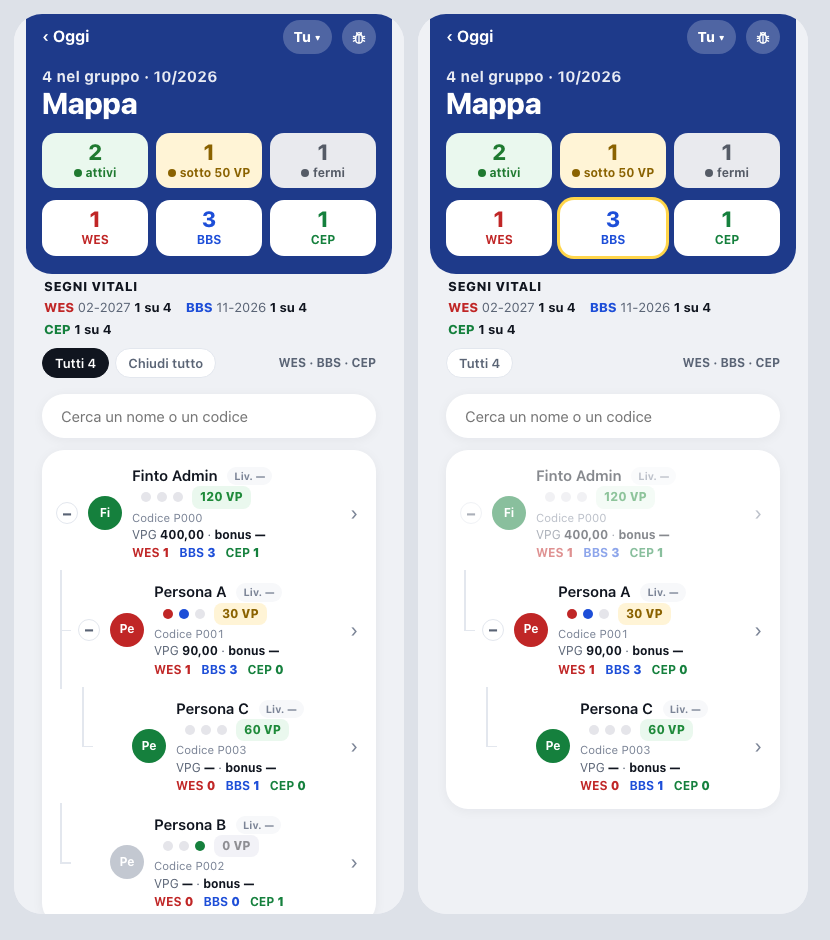
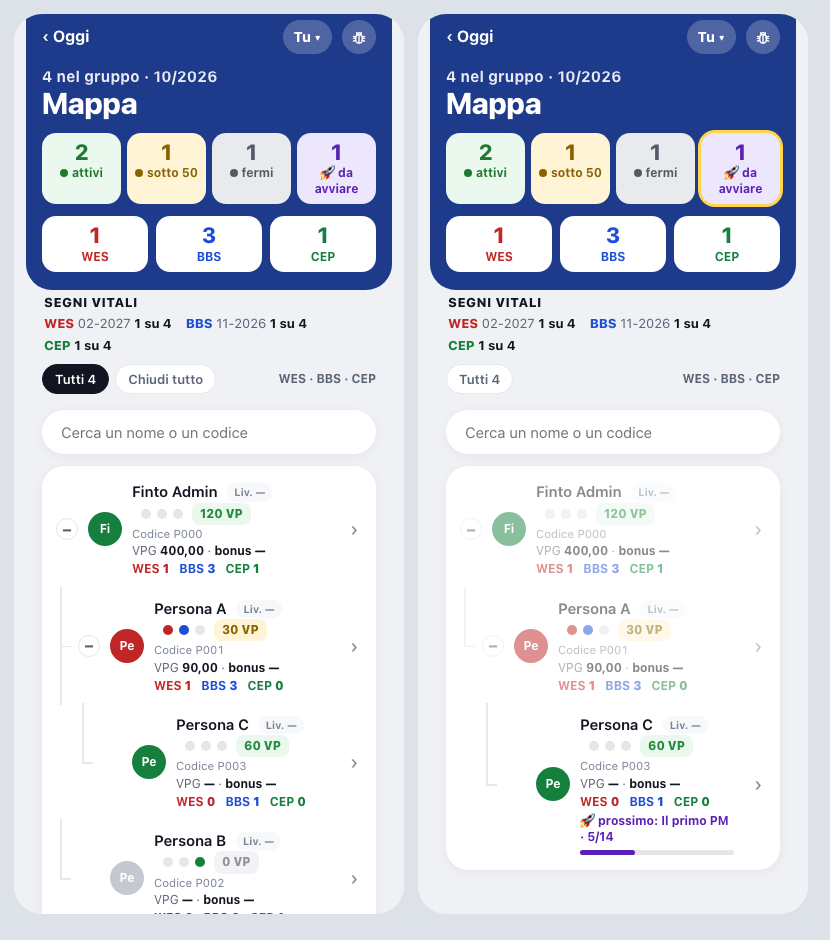
Nota Pagine 098 (Ignazio 26/10, «perfetto»): nella Mappa v5 «da avviare» è un riquadro-filtro; via la riga «Partner da avviare»; la pagina dei passi con la testata v5

diff --git a/pagina-mappa.js b/pagina-mappa.js
@@ -145,7 +145,9 @@ function riquadriMappaV5(conta, cime) {
   const tot = { wes: 0, bbs: 0, cep: 0 };
   if (MP.segni) for (const c of cime) { const g = MP.segni.gruppo[c.id]; if (g) for (const [k] of SEGNI_V5) tot[k] += g[k] || 0; }
   const b = (k, n, t) => `<button class="m5-box ${k}${MP.filtro === k ? ' scelto' : ''}" data-mpfiltro="${k}" aria-pressed="${MP.filtro === k}"><b>${n}</b><small>${t}</small></button>`;
-  return `<div class="m5-riquadri stati">${b('attivo', conta.attivo, 'attivi')}${b('warning', conta.warning, 'sotto 50 VP')}${b('inattivo', conta.inattivo, 'fermi')}</div>
+  // nota 098 (Ignazio 26/10, «perfetto»): «da avviare» è un riquadro come gli altri (i partner con l'avvio aperto, AVV.righe, nell'albero che si guarda)
+  const avvio = avviiNellaMappa(cime).size;
+  return `<div class="m5-riquadri stati quattro">${b('attivo', conta.attivo, 'attivi')}${b('warning', conta.warning, 'sotto 50')}${b('inattivo', conta.inattivo, 'fermi')}${b('avvio', avvio, '🚀 da avviare')}</div>
     <div class="m5-riquadri segni">${SEGNI_V5.map(([k, t]) => b(k, MP.segni ? tot[k] : '…', t)).join('')}</div>`;
 }
 // Nota 098 (Ignazio 26/10: «lo sappiamo in quale mese siamo e chi sta guardando»; via «Segnati» e «Abbonati»): un titolo solo «Segni Vitali» e sotto
@@ -165,9 +167,22 @@ function livelloVisto(livello, cime) {
   const base = cime && cime.length === 1 && cime[0].livello != null ? cime[0].livello : null;
   return base != null && livello >= base ? livello - base + 1 : livello;
 }
-// chi passa il filtro di un riquadro: lo stato dei VP, o il segno suo (non del gruppo)
+// i partner da avviare (AVV.righe, letti con la Dashboard o all'apertura della Mappa) che stanno nell'albero che si guarda: codice → riga dell'avvio
+function avviiNellaMappa(cime) {
+  const ids = new Set(MB21Mappa.tuttiGliId(cime || [])), m = new Map();
+  for (const a of (typeof AVV !== 'undefined' && AVV.righe) || []) if (a.partner_id && ids.has(a.partner_id)) m.set(a.partner_id, a);
+  return m;
+}
+// sotto il nome, con il filtro «da avviare»: il prossimo passo e i passi fatti su 14, con la barretta (MB21Lista, le regole dell'avvio)
+function avvioRigaV5(a) {
+  if (!a) return '';
+  const L = MB21Lista, { fatti, totale } = L.contatoreOnboarding(a), p = L.prossimoPasso(a);
+  return `<div class="m5-avvio">🚀 ${p ? 'prossimo: ' + esc(p.nome) + ' · ' : ''}${fatti}/${totale}<i><b style="width:${totale ? Math.round(fatti / totale * 100) : 0}%"></b></i></div>`;
+}
+// chi passa il filtro di un riquadro: lo stato dei VP, il segno suo (non del gruppo), o l'avvio aperto
 function passaFiltroV5(r, f) {
   if (f === 'attivo' || f === 'warning' || f === 'inattivo') return r.stato === f;
+  if (f === 'avvio') return ((typeof AVV !== 'undefined' && AVV.righe) || []).some(a => a.partner_id === r.id);
   const p = MP.segni && MP.segni.proprio[r.id];
   return !!(p && p[f] > 0);
 }
@@ -197,6 +212,7 @@ function disegnaMappa() {
   // WES · BBS · CEP: chi ha il segno, MP.segni.proprio). Poi (Ignazio: «manteniamo la struttura della mappa»): l'albero resta, tutto aperto, con le persone
   // della lista al loro posto e i rami che servono per arrivarci attenuati (`spento`, come i filtri di prima)
   const soloLista = v5 && MP.filtro !== 'tutti';
+  const avvii = v5 ? avviiNellaMappa(cime) : new Map();
   const righe = soloLista ? M.righe(cime, { aperti: new Set(M.tuttiGliId(cime)), cerca: MP.cerca, passaFiltro: r => passaFiltroV5(r, MP.filtro) })
     : M.righe(cime, { aperti: MP.aperti, filtro: MP.filtro, cerca: MP.cerca });
   const num = (v, d = 2) => (v == null ? '—' : centesimi(Number(v).toLocaleString('it-IT', { minimumFractionDigits: d, maximumFractionDigits: d })));   // HTML: la virgola dei centesimi evidente
@@ -205,7 +221,7 @@ function disegnaMappa() {
 
   // v5 (nota 095, Regia 26/10): la testata blu notte (testaMappaV5, pagina-oggi.js) al posto del titolo e della fascia del Partner Select; sotto la Mappa di adesso
   let html = `${v5 ? testaMappaV5(conta.tutti, mesePulito(MP.mese), riquadriMappaV5(conta, cime)) : `<h1>Mappa</h1>${partnerSelect()}`}
-    ${righeTeamHtml()}${statisticheHtml()}
+    ${v5 ? obiettiviTeamHtml() : righeTeamHtml()}${statisticheHtml()}
     ${v5 ? segniVitaliV5(cime) : `<div class="mp-testa"><span>Gruppo di ${esc(nomeVisto())}</span><span>mese ${esc(mesePulito(MP.mese))}</span></div>
     ${MP.attivi ? `<div class="mp-testa"><span>Segni Vitali del gruppo: WES ${MP.attivi.wes ? esc(MB21Lista.etichettaEvento(MP.attivi.wes)) : '—'} · BBS ${MP.attivi.bbs ? esc(MB21Lista.etichettaEvento(MP.attivi.bbs)) : '—'} · CEP oggi</span></div>` : ''}${contoSegniHtml(cime)}`}
     ${v5 ? `<div class="mp-filtri"><button data-mpfiltro="tutti" class="${MP.filtro === 'tutti' ? 'scelto' : ''}">Tutti ${conta.tutti}</button>${soloLista ? '' : `<button id="mp-tutto">${MP.aperti.size ? 'Chiudi tutto' : 'Apri tutto'}</button>`}<span class="m5-legenda">WES · BBS · CEP</span></div>` : `<div class="mp-filtri">${etichette.map(([k, t]) =>
@@ -246,6 +262,7 @@ function disegnaMappa() {
           <div class="mp-numeri">${v5 ? '' : `VPP <b>${num(r.vpp)}</b> · `}VPG <b>${num(r.vpg)}</b> · <b class="mp-bonus">bonus ${r.bonus == null ? '—' : num(r.bonus, 0) + '%'}</b>${
             r.gruppo ? ` · gruppo <b>${r.gruppo}</b>` : ''}</div>
           ${v5 ? segniGruppoV5(MP.segni && MP.segni.gruppo[r.id], r) : segniGruppoHtml(MP.segni && MP.segni.gruppo[r.id])}
+          ${v5 && MP.filtro === 'avvio' && !r.spento ? avvioRigaV5(avvii.get(r.id)) : ''}
           ${r.alLivelloSuccessivo ? `<div class="mp-manca">mancano <b>${num(r.alLivelloSuccessivo)}</b> ${M.bonusSuccessivo(r.bonus) ? `per il ${M.bonusSuccessivo(r.bonus)}%` : 'per il livello successivo'}</div>` : ''}
         </div>
         <button class="mp-completa" data-mpcompleta="${esc(r.id)}" aria-label="Apri la scheda di ${esc(r.nome)}">›</button></div>`;
@@ -519,6 +536,10 @@ function collegaMappa() {
   app.querySelectorAll('[data-mpnome]').forEach(b => b.onclick = async () => {
     const partner = (MP.squadra || []).find(x => x.partner_id === b.dataset.mpnome);
     if (!partner) return;
+    // nota 098: con il filtro «da avviare» il nome apre i suoi 14 passi (la pagina dell'avvio di sempre), con «‹ Mappa»
+    if (mappaV5() && MP.filtro === 'avvio' && typeof AVV !== 'undefined' && AVV.righe.some(a => a.partner_id === partner.partner_id)) {
+      ST.tornaA = 'mappa'; AVV.aperto = partner.partner_id; window.scrollTo(0, 0); return disegnaAvvio();
+    }
     const r = { id: partner.partner_id, nome: MB21Mappa.nomeLeggibile(partner.nome) };
     if (!MP.schede) {
       try { await caricaSchedeMappa(); } catch (e) { return mostraToast('Schede non caricate: riprova.'); }

diff --git a/tools/banco/prova_mappa_v5.js b/tools/banco/prova_mappa_v5.js
@@ -18,8 +18,9 @@ function mondo({ admin = true } = {}) {
   const ctx = { console, Promise, Date, Set, Map, JSON, Math, Number, String, Array, Object, app, esc, escIcone: s => s, ic: n => `[${n}]`, iniziali: n => String(n).slice(0, 2), centesimi: s => s,
     MB21Mappa: M, MB21Lista: L, MB21Coda: { oggiRoma: () => '2026-10-26' }, ST: { utente: { id: 'admin', partner_id: 'P000' }, tab: 'mappa' },
     eAdmin: () => admin, vediTutti: () => false, soloLettura: () => false, visto: () => ({ id: 'admin', partner_id: 'P000' }), nomeVisto: () => 'Finto Admin',
-    partnerSelect: () => '', righeTeamHtml: () => '', rigaApribile: () => '', versione: () => '', collegaPartnerSelect() {}, collegaRigheTeam() {}, targaAppHtml: () => '',
-    chipPartnerSelect: () => '<button class="o5-ps" id="ps-scegli">Tu ▾</button>', OGGI_V5: true,
+    partnerSelect: () => '', righeTeamHtml: () => '<div id="riga-avvio-di-prima"></div>', obiettiviTeamHtml: () => '',
+    AVV: { righe: [{ partner_id: 'P003', nome: 'C, PERSONA', onb_sogno: true }], aperto: null }, disegnaAvvio: () => chiamate.push(['avvio', ctx.AVV.aperto, ctx.ST.tornaA]), apriContattoDa: id => chiamate.push(['scheda', id]), rigaApribile: () => '', versione: () => '', collegaPartnerSelect() {}, collegaRigheTeam() {}, targaAppHtml: () => '',
+    chipPartnerSelect: () => '<button class="o5-ps" id="ps-scegli">Tu ▾</button>', OGGI_V5: true, window: { scrollTo() {} },
     supa: new Proxy({}, { get: () => { throw new Error('nessuna lettura nel disegno della Mappa'); } }),
     document: { getElementById: id => app.getElementById(id) }, mostraToast: t => chiamate.push(['toast', t]),
     toccaTarga: (c, k) => chiamate.push(['tocca', c.id, k]) };
@@ -42,7 +43,8 @@ function mondo({ admin = true } = {}) {
 prova('La testata: attivi · sotto 50 VP · fermi (con il loro colore) e sotto WES · BBS · CEP del gruppo intero, in quest\'ordine', () => {
   const W = mondo(); W.ctx.disegna();
   const h = W.app.innerHTML;
-  assert.match(h, /<div class="m5-riquadri stati"><button class="m5-box attivo" data-mpfiltro="attivo" aria-pressed="false"><b>2<\/b><small>attivi<\/small><\/button><button class="m5-box warning" data-mpfiltro="warning" aria-pressed="false"><b>1<\/b><small>sotto 50 VP<\/small><\/button><button class="m5-box inattivo" data-mpfiltro="inattivo" aria-pressed="false"><b>1<\/b><small>fermi<\/small><\/button><\/div>/);
+  assert.match(h, /<div class="m5-riquadri stati quattro"><button class="m5-box attivo" data-mpfiltro="attivo" aria-pressed="false"><b>2<\/b><small>attivi<\/small><\/button><button class="m5-box warning" data-mpfiltro="warning" aria-pressed="false"><b>1<\/b><small>sotto 50<\/small><\/button><button class="m5-box inattivo" data-mpfiltro="inattivo" aria-pressed="false"><b>1<\/b><small>fermi<\/small><\/button><button class="m5-box avvio" data-mpfiltro="avvio" aria-pressed="false"><b>1<\/b><small>🚀 da avviare<\/small><\/button><\/div>/);
+  assert.doesNotMatch(h, /riga-avvio-di-prima/);   // la riga grigia «Partner da avviare» non c'è più: è il riquadro
   assert.match(h, /<div class="m5-riquadri segni"><button class="m5-box wes"[^>]*><b>1<\/b><small>WES<\/small><\/button><button class="m5-box bbs"[^>]*><b>3<\/b><small>BBS<\/small><\/button><button class="m5-box cep"[^>]*><b>1<\/b><small>CEP<\/small><\/button><\/div>/);
   assert.doesNotMatch(h, /data-mpfiltro="warning" class=|🔴Warning|⚪Inattivi/);   // niente più la fila di filtri di prima: i filtri sono i riquadri
 });
@@ -95,6 +97,22 @@ prova('Il livello parte da chi si guarda: con il Partner Select su Persona A, le
   const h = W.app.innerHTML;
   assert.match(h, /data-mpnome="P001">[^<]*<\/button>\s*<span class="mp-liv">Liv\. 1</);
   assert.match(h, /data-mpnome="P003">[^<]*<\/button>\s*<span class="mp-liv">Liv\. 2</);
+});
+
+prova('«Da avviare» (Ignazio 26/10, «perfetto»): il riquadro con il numero; toccandolo l\'albero con solo loro, il prossimo passo e i passi su 14; il nome apre i suoi passi', () => {
+  const W = mondo(); W.ctx.disegna();
+  W.ctx.MB21Lista = { ...L, contatoreOnboarding: () => ({ fatti: 5, totale: 14 }), prossimoPasso: () => ({ nome: 'Il primo PM' }) };
+  vm.runInContext('MB21Lista = this.MB21Lista', W.ctx);
+  W.app.clic('[data-mpfiltro="avvio"]');
+  const h = W.app.innerHTML;
+  const righe = [...h.matchAll(/<div class="mp-riga ([^"]*)"[\s\S]*?data-mpnome="(P\d+)"/g)].map(x => [x[2], /spento/.test(x[1])]);
+  assert.deepEqual(righe, [['P000', true], ['P001', true], ['P003', false]]);   // Persona C al suo posto, i rami attenuati
+  assert.match(h, /<div class="m5-avvio">🚀 prossimo: Il primo PM · 5\/14<i><b style="width:36%"><\/b><\/i><\/div>/);
+  W.app.clic('[data-mpnome="P003"]');
+  assert.equal(JSON.stringify(W.chiamate.at(-1)), JSON.stringify(['avvio', 'P003', 'mappa']));
+  // fuori dal filtro il nome apre la scheda, come prima
+  W.app.clic('[data-mpfiltro="avvio"]'); W.ctx.MP.aperti = new Set(['P000', 'P001']); W.ctx.disegna();
+  assert.equal(W.ctx.MP.filtro, 'tutti');
 });
 
 prova('Al caricamento subito la testata v5 con «…», mai il titolo vecchio', () => {

diff --git a/pagina-dashboard.js b/pagina-dashboard.js
@@ -1525,8 +1525,10 @@ function disegnaAvvio() {
         </div>` : ''}
     </div>`;
   };
-  app.innerHTML = `<button class="indietro" id="indietro">‹ ${ST.tornaA === 'mappa' ? 'Mappa' : 'Oggi'}</button>
-    <h1>${ic('avvio')} Partner da avviare</h1>
+  // v5 (nota 098): dalla Mappa la testata blu notte con «‹ Mappa»; il resto della pagina come prima
+  app.innerHTML = `${typeof testaZonaV5 === 'function' && typeof OGGI_V5 !== 'undefined' && OGGI_V5 ? testaZonaV5({ colore: 'var(--z-mappa)', torna: ST.tornaA === 'mappa' ? 'Mappa' : 'Oggi', tornaId: 'indietro', titolo: 'Partner da avviare', ps: false })
+      : `<button class="indietro" id="indietro">‹ ${ST.tornaA === 'mappa' ? 'Mappa' : 'Oggi'}</button>
+    <h1>${ic('avvio')} Partner da avviare</h1>`}
     <div class="sotto" style="margin-bottom:8px">I partner ${altro ? `del Team di ${esc(nomeDi(visto()))}` : 'del tuo Team'} con l'avvio aperto, dal più recente. Tocca un nome per vedere i suoi passi.</div>
     <button class="ag-blocco avv-come" id="avv-come"><span>${ic('info')} Come funziona</span><span>${AVV.comeAperto ? '⌄' : '›'}</span></button>
     ${AVV.comeAperto ? `<div class="riquadro avv-come-testo"><ul>
@@ -1543,6 +1545,7 @@ function disegnaAvvio() {
     ${AVV.pausa.length ? `<button class="ag-blocco avv-pausa" id="avv-pausa"><span>${ic('pausa')} In pausa · ${AVV.pausa.length}</span><span>${AVV.pausaAperta ? '⌄' : '›'}</span></button>
       ${AVV.pausaAperta ? AVV.pausa.map(card).join('') : ''}` : ''}${versione()}`;
   document.getElementById('indietro').onclick = tornaDaTeam;
+  const fb5 = document.getElementById('o5-feedback'); if (fb5) fb5.onclick = () => foglioSegnala();   // v5: il feedback della testata
   const come = document.getElementById('avv-come');
   if (come) come.onclick = () => { AVV.comeAperto = !AVV.comeAperto; disegnaAvvio(); };
   const pausa = document.getElementById('avv-pausa');

diff --git a/index.html b/index.html
@@ -2536,6 +2536,11 @@
   .m5-box { border: 0; border-radius: 14px; padding: 7px 4px; font: inherit; display: flex; flex-direction: column; align-items: center; gap: 1px; min-height: 52px; }
   .m5-box b { font-size: 22px; font-weight: 800; line-height: 1.1; } .m5-box small { font-size: 12px; font-weight: 700; }
   .m5-box.scelto { box-shadow: 0 0 0 3px #FFD54A; }
+  .m5-riquadri.quattro { grid-template-columns: repeat(4, minmax(0, 1fr)); gap: 6px; }
+  .m5-box.avvio { background: #EDE7FE; color: #5B21B6; }
+  .m5-riquadri.stati .m5-box.avvio small::before { display: none; }
+  .m5-avvio { font-size: 12px; font-weight: 700; color: #5B21B6; margin-top: 3px; }
+  .m5-avvio i { display: block; height: 5px; width: 180px; max-width: 100%; background: #E5E5EA; border-radius: 3px; margin-top: 4px; } .m5-avvio i b { display: block; height: 5px; background: #5B21B6; border-radius: 3px; }
   .m5-riquadri.stati .m5-box small::before { content: ''; display: inline-block; width: 8px; height: 8px; border-radius: 50%; margin-right: 4px; background: currentColor; }
   .m5-box.attivo { background: #EAF8EE; color: #1F7A30; } .m5-box.warning { background: #FFF4D6; color: #8A6200; } .m5-box.inattivo { background: #E9EAEE; color: #555B66; }
   .m5-box.wes, .m5-box.bbs, .m5-box.cep { background: #fff; } .m5-box.wes { color: var(--wes); } .m5-box.bbs { color: var(--bbs); } .m5-box.cep { color: var(--cep); }

diff --git a/STRUTTURA.md b/STRUTTURA.md
@@ -328,7 +328,7 @@ Funzioni: `utente_corrente()` (id in `utenti` di chi è loggato) · `is_admin()`
   - **Secondo giro (nota 098), il Training** (Ignazio 26/10, «sì»; solo con la veste v5, `trnV5()`): le schede sono **Ripassa · Impara · Studia** e il Training si apre su Ripassa se oggi ci sono carte da ripassare, se no su Impara (`apriTraining`). Il riquadro grande di Ripassa dice «15 carte da ripassare oggi · circa 5 minuti · tornano quelle che stai imparando» (più le obiezioni capitate e «Poi, se ti va, altre 15» se servono), con «Inizia il ripasso» di sempre. Sotto, **«Dove sei arrivato»** (`trnDoveArrivato`, dai dati già letti di `MB21Training.scala`): livello «1 di 7», livello · percorso di adesso, una barretta per percorso (piena = carte viste tutte o superato), «Percorso 2 di 6 · la prossima volta continui da qui in «Impara»»; il tocco porta a Impara sul percorso di adesso. Carte, test, risposte e salvataggi non cambiano; nessuna lettura nuova. Il «libro che resta scelto» è del Check. Disegno `docs/prototipi/schizzo_training_098.png`.
   - **Secondo giro (nota 098), il Check** (Ignazio 26/10, «procedi»; con la veste v5, `checkV5()`): una pagina con le schede **Giorno · Mese · Percorso** nella testata turchese (`SCHEDE_CHECK_V5` in `testaCheckV5`, `data-ck-scheda` → `vaiLV`, collegate in `collegaVistaLV`). **Giorno** = LV `ckgiorno` (`disegnaCheckGiornoLV`): «Il mio giorno» dentro la pagina, lo stesso modulo di `apriCheck({ posto, data })` (campi, letture, conti, Salva e Annulla di sempre; nella pagina «Annulla» rimette il giorno com'era e il giorno scelto resta in `LV.ckData`); ci si arriva dal riquadro «Com'è andata oggi?» di Oggi e dall'avviso della sera (`?apri=check` → `vai === 'giorno'`); guardando un altro partner o offline un avviso. Fuori dalla veste e dagli altri punti `apriCheck()` è il foglio di sempre. **Mese** (`disegnaMeseV5`): «Check · ottobre · restano N giorni», le voci di adesso (`d.schede`) in gruppi Volumi · Attività · Segni Vitali · Crescita · Squadra, con «su N», barretta e il mese prima sotto (`voceAreaHtml`, la stessa riga del dettaglio dell'area); il titolo del gruppo apre il dettaglio di adesso; poi «Apri un giorno», la fila dei giorni del mese fino a oggi (il tocco apre la scheda Giorno su quella data), «Gli ultimi 12 mesi» e gli Obiettivi. **Percorso** (`percorsoV5Html` in `disegnaTraguardoLV`): «Check · ottobre · i tuoi traguardi», «Il più vicino» e «Gli altri» (Leader 1° livello, Core con le 7 abitudini, Pacesetter) aperti con i passi a parole (`vociHtml`, la stessa lista del gradino) e le barrette; il titolo apre il gradino; sotto i livelli come prima. **Il libro resta scelto** (Ignazio: «scelto un libro, rimanga quel libro fino a quando non lo cambiamo»): in un giorno ancora da scrivere `libroDiPrima` mette il libro dell'ultimo Check scritto prima (una lettura di una riga, solo allora; vale su telefono e computer; niente di nuovo nel database); un libro già scelto non si tocca. Voci, calcoli, conti e salvataggi invariati. Prove `tools/banco/prova_check_v5.js`. Disegno `docs/prototipi/schizzo_check_098.png`.
   - **Secondo giro (nota 098), Clienti da sentire** (Ignazio 26/10, «sì, senza 4»: il modulo unico dell'esito resta fuori, restano i 6 tasti della card del riordino). In «Clienti da sentire» (`disegnaClientiV5`): «Da sentire oggi» (quelli di adesso), «Già sentiti oggi», poi **«Prossimi riordini»** (`clientiFuturiV5`; correzione di Ignazio 26/10, «sì»: prima «Questa settimana» e «Più avanti» entro 30 giorni, vuoti quando il primo era fra 55 giorni): i prossimi 5 riordini dopo oggi, senza limite di giorni, dal più vicino (`RIO.futuri`, dalla stessa lettura `riordini_vendite` di `caricaRiordini`, che porta già tutte le vendite con la telefonata di riordino): nome e cognome, sotto «marca · prodotto · ogni N mesi», a destra la data con l'anno in oro («20/12/2026»); il tocco apre il contatto. Senza clienti da sentire oggi, nella testata e nel riquadro CLIENTI di Oggi solo «Nessun cliente da sentire oggi» (via «il prossimo: Nome, giorno»). Su ogni riga di riordino (anche in Contatti del giorno, `sottoOggi`) **ogni quanto** (`ogniQuantoRiordino`: i mesi «Fra N mesi» della vendita, se no quelli fra vendita o consegna e riordino; niente se a rottura): la lettura chiede in più marca, data, consegna, durata e «a rottura» della vendita (stessa richiesta). Nella scheda del Cliente (`schedaInPiuV5`) **«Prossimo riordino · 20/12/2026 · eSpring»** (la data con l'anno) con prodotto e ogni quanto, dagli stessi dati. Esiti, «Ordina da solo» con l'attesa, «Apri contatto» e salvataggi invariati; nessuna vendita si registra da sola. **Un Cliente non ha i Segni Vitali** (Ignazio 26/10: «non servono a niente in un cliente»): né nella scheda v5 (già solo Partner) né nella linguetta «Segni Vitali» della scheda della Lista (`sezioniPer`). Disegno `docs/prototipi/schizzo_clienti_098.png`.
-  - **Secondo giro (nota 098), la Mappa** (Ignazio 26/10: opzione A, con «la prima riga di un altro colore», «WES, BBS, CEP ovunque», «cliccandoli solo i nomi di quella lista»; con la veste v5, `mappaV5()`). Testata blu notte (`testaMappaV5(quanti, mese, dentro)`) con due file di riquadri (`riquadriMappaV5`): **attivi · sotto 50 VP · fermi** (verde, oro, grigio, con il pallino; la regola dei filtri di sempre, `MB21Mappa.stato`, soglia 50 VP) e **WES · BBS · CEP** del gruppo intero (bianchi, numero del colore del segno: la somma di `MP.segni.gruppo` delle cime, la stessa regola di «nel suo gruppo»). Ogni riquadro è un filtro (`data-mpfiltro`; toccato di nuovo torna a tutti): con un filtro **l'albero resta** (Ignazio 26/10: «manteniamo la struttura della mappa»), tutto aperto, con le persone della lista al loro posto e i rami per arrivarci attenuati (`MB21Mappa.righe` con `passaFiltro` = `passaFiltroV5`: lo stato dei VP, o chi ha il segno lui stesso, `MP.segni.proprio`); la fila dei filtri di prima diventa «Tutti N», «Apri/Chiudi tutto» e la legenda «WES · BBS · CEP». Su ogni persona i **puntini WES · BBS · CEP** (`puntiniV5`, accesi come le targhette; per l'Admin sono i tasti di sempre, `data-targa` → `toccaTarga`), i **VP personali in un bollino** colorato per stato (`.m5-vp`), sotto VPG e bonus, e «nel suo gruppo» con i numeri colorati (`segniGruppoV5`). Al caricamento subito la testata v5 con «…». Sotto la testata niente più «Gruppo di …» e il mese (Ignazio: «lo sappiamo»): un titolo **«Segni Vitali»** con «WES 02-2027 · BBS 11-2026 · CEP» (`segniVitaliV5`), per l'Admin accanto «1 su 4» (persone con il segno su quante; via «segnati» e «abbonati»). **Il livello parte da chi si guarda** (`livelloVisto`: con il Partner Select su un partner lui è Liv. 1; anche nella sua scheda «Livello N»). Albero, ricerca, caricamento del file, conti e letture invariati; nessuna lettura nuova. **WES · BBS · CEP in quest'ordine in tutta l'app** (Ignazio 26/10): targhette (`targheHtml`, Lista, scheda, Mappa), linguetta Segni Vitali, Profilo, luci del Leader 1° livello (`check.js`), riga Core «OPEN · WES · BBS», i Segni Vitali del Mese (`dashboard.js` SCHEDE), i 12 mesi (`COLONNE_SV`, `TIPI_SL`, si apre su WES), la scheda v5, il Check del giorno. Prove `tools/banco/prova_mappa_v5.js`. Disegno `docs/prototipi/schizzo_mappa_098.png`.
+  - **Secondo giro (nota 098), la Mappa** (Ignazio 26/10: opzione A, con «la prima riga di un altro colore», «WES, BBS, CEP ovunque», «cliccandoli solo i nomi di quella lista»; con la veste v5, `mappaV5()`). Testata blu notte (`testaMappaV5(quanti, mese, dentro)`) con due file di riquadri (`riquadriMappaV5`): **attivi · sotto 50 VP · fermi** (verde, oro, grigio, con il pallino; la regola dei filtri di sempre, `MB21Mappa.stato`, soglia 50 VP) e **WES · BBS · CEP** del gruppo intero (bianchi, numero del colore del segno: la somma di `MP.segni.gruppo` delle cime, la stessa regola di «nel suo gruppo»). Ogni riquadro è un filtro (`data-mpfiltro`; toccato di nuovo torna a tutti): con un filtro **l'albero resta** (Ignazio 26/10: «manteniamo la struttura della mappa»), tutto aperto, con le persone della lista al loro posto e i rami per arrivarci attenuati (`MB21Mappa.righe` con `passaFiltro` = `passaFiltroV5`: lo stato dei VP, o chi ha il segno lui stesso, `MP.segni.proprio`); la fila dei filtri di prima diventa «Tutti N», «Apri/Chiudi tutto» e la legenda «WES · BBS · CEP». Su ogni persona i **puntini WES · BBS · CEP** (`puntiniV5`, accesi come le targhette; per l'Admin sono i tasti di sempre, `data-targa` → `toccaTarga`), i **VP personali in un bollino** colorato per stato (`.m5-vp`), sotto VPG e bonus, e «nel suo gruppo» con i numeri colorati (`segniGruppoV5`). Al caricamento subito la testata v5 con «…». Sotto la testata niente più «Gruppo di …» e il mese (Ignazio: «lo sappiamo»): un titolo **«Segni Vitali»** con «WES 02-2027 · BBS 11-2026 · CEP» (`segniVitaliV5`), per l'Admin accanto «1 su 4» (persone con il segno su quante; via «segnati» e «abbonati»). **«🚀 da avviare»** (Ignazio 26/10: un riquadro come gli altri, «così gli stessi nomi non risultano due volte»): quarto riquadro della prima fila (che diventa «attivi · sotto 50 · fermi · da avviare»), il numero dei partner con l'avvio aperto nell'albero che si guarda (`avviiNellaMappa`, da `AVV.righe`); toccandolo l'albero con solo loro, sotto il nome il prossimo passo e i passi su 14 con la barretta (`avvioRigaV5`), e il nome apre i suoi 14 passi (`disegnaAvvio`, «‹ Mappa», con la testata v5 `testaZonaV5`); la riga grigia «Partner da avviare» in cima alla Mappa non c'è più (resta «Obiettivi mensili dei partner»). **Il livello parte da chi si guarda** (`livelloVisto`: con il Partner Select su un partner lui è Liv. 1; anche nella sua scheda «Livello N»). Albero, ricerca, caricamento del file, conti e letture invariati; nessuna lettura nuova. **WES · BBS · CEP in quest'ordine in tutta l'app** (Ignazio 26/10): targhette (`targheHtml`, Lista, scheda, Mappa), linguetta Segni Vitali, Profilo, luci del Leader 1° livello (`check.js`), riga Core «OPEN · WES · BBS», i Segni Vitali del Mese (`dashboard.js` SCHEDE), i 12 mesi (`COLONNE_SV`, `TIPI_SL`, si apre su WES), la scheda v5, il Check del giorno. Prove `tools/banco/prova_mappa_v5.js`. Disegno `docs/prototipi/schizzo_mappa_098.png`.
   - **Secondo giro (nota 098), scheda della persona e Contatti del giorno** (pacchetto approvato da Ignazio il 26/10, «sì»; «un Prospect non ha bisogno di Segni Vitali»). Si guarda e basta: tasti, fogli e salvataggi di adesso. In fondo alla scheda (`schedaInPiuV5`, pagina-oggi.js): **Segni Vitali solo per i Partner** («BBS sì · WES no» e il CEP, con la lettura della linguetta, `caricaSegni`), **Prossimo** (il prossimo appuntamento o «Niente in agenda»; sotto, dal 26/10, il **«Da fare» della persona**: la stessa funzione della scheda della Lista, `cosePersonaHtml` in pagina-lista.js con `dentro: true` — spunta, foglio della cosa, «+ Una cosa da fare» che salva in `cose_da_fare` con `contatto_id`, giorno oggi e `user_id` del proprietario; lettura `leggiCose5` tenuta in memoria; `coseDellaScheda` della Lista la chiama come prima) e **Le ultime volte** (le ultime 2 azioni, con la data sempre con l'anno, «14/10/2026», `MB21Lista.data`: Ignazio 26/10; se la riga è lunga la data va a capo, non si taglia). **La traccia di apertura** (nota 098, Ignazio 26/10: «diamo un flow di direzione e visione ben definito»): sotto un Piano Marketing a un candidato (`MB21Sharing.perChiDi` = 'ospite') la riga «Traccia di apertura · da condividere» con «Condivisa» o «condivisa ✓» (`tracciaAperturaV5`: la traccia del Media Sharing per il candidato con ordine 0; biblioteca da `leggiMateriali`, condivisioni della persona in una lettura piccola tenuta in memoria); il tocco usa la stessa scrittura della linguetta Sharing (`scriviCondivisione`/`annullaCondivisione` in pagina-sharing.js, che ora usa anche `registraCondivisione`), con «Annulla». Dalla scheda v5, dopo «PM Fissato» a un candidato, niente domanda «Hai condiviso la traccia di apertura?»: `toccaBottone` (`restaV5`) tiene aperta la scheda (`LV.restaSu`, con «✓ PM Fissato» al posto del tasto dell'esito; si azzera cambiando pagina) e poi la chat del coach come prima; dagli altri punti (Lista, Agenda, Dashboard di prima) la domanda resta, dalle ultime 5 azioni della persona (una richiesta). In Contatti del giorno **«Già sentiti oggi»** con tutti gli esiti di oggi, una riga per persona con categoria ed esito (`sentitiOggiV5`, una richiesta; finché non arriva, quelli chiusi da qui con «fatto»). Le letture si tengono in memoria (`P5`) finché non c'è una scrittura (`SCRITTURE.ultima`). Disegno `docs/prototipi/schizzo_scheda_098.png`.
   - **Terza pagina v5: l'Agenda** (Regia 25/10 sera; solo la veste). Sul telefono (`!largo()`) `testaScala(mostraOggi, dentro)` diventa `testaAgendaV5` (pagina-oggi.js): testata blu Agenda con «‹ Oggi» (`#v5-indietro`), il mese, «Agenda», «Oggi» e «+» con gli stessi id di prima (`#ag-oggi`, `#ag-nuovo` → `foglioAggiungi`), il chip del Partner Select, il feedback, Giorno · Settimana · Mese · Anno (`data-v5-scala` → `cambiaVista`, la stessa del menu) e, nel Giorno, la striscia della settimana di adesso (`striscia`). Sotto, l'Agenda resta quella di adesso (impegni, foglio del giorno, Timeline, linguette, moduli, esiti). `partnerSelectAgenda()`: la fascia grande del Partner Select solo senza la veste nuova (computer). I collegamenti nuovi in `collegaAgenda`. Il tondo del feedback si nasconde da solo dove c'è una testata v5 (`body:has(.v5-testa) #segnala`). Disegno `docs/prototipi/schizzo_agenda_v5_095.png`.
   - **Secondo giro (nota 098), il Giorno dell'Agenda in quattro gruppi** (Ignazio «sì» 26/10, proposta A; con la veste v5, telefono e computer: `giornoV5()` = `OGGI_V5`; senza, il Giorno di prima). Sotto la testata, dalla cosa più urgente (`giornoV5Html` in pagina-agenda.js), ogni gruppo col suo colore e che si apre e si chiude (`gruppoV5`, chiave `g5-…` in `sezioniChiuse`: lì vuol dire chiuso): **Da chiudere · N** (arancio scuro #C2410C, solo nel Giorno di oggi): gli impegni passati senza esito, dalla lettura di sempre `senza_esito` (`AG.passati`, al massimo `LIMITE_SENZA_ESITO`, allora «N+»), con «ieri 18:00 ›»; il tocco apre `foglioEvento` come «Da chiudere» del Programma della settimana; senza niente il gruppo non c'è. **In programma · N** (blu): gli impegni del giorno (meno quelli già in Da chiudere), spazi e ricevuti; in testa l'interruttore **Elenco · Timeline** (`modoProgramma`, ricordato sul dispositivo in `localStorage` «mb21-agenda-programma»): Elenco = `impegniHtml`, Timeline = `grigliaGiorno` in una scatola che scorre (`.a5-crono`); sul computer solo l'Elenco (la Timeline è già nella colonna destra). Il cassetto «Timeline» in fondo non c'è più con la veste v5. **Da fare · N** (verde): solo le cose del giorno (Ignazio 26/10: niente settimana ripiegata in cima, quelle della settimana stanno nella Settimana) (`coseDelGiorno`, spunta e `foglioCosa` di sempre, `collegaCose`) e in fondo «+ Una cosa da fare», che apre il campo di sempre (`nuovaCosaHtml('giorno')` con «Tipo ▾»; `AG.cosaAperta`). **Da seguire · N** (viola, solo oggi): `tracceHtml` e `mioPercorsoHtml` con i loro tasti (`collegaDaSeguireAgenda`). Sopra i gruppi restano il titolo del giorno, «Chi sento oggi?» e i compleanni. Nessuna lettura nuova. Collegamenti in `collegaGiornoV5`. Settimana, Mese e Anno come prima. Prove `tools/banco/prova_agenda_giorno_v5.js` (l'anteprima `tools/design/anteprima_agenda.js` con `globalThis.AGENDA_V5`). Disegno `docs/prototipi/schizzo_agenda_giorno_098.png`.
